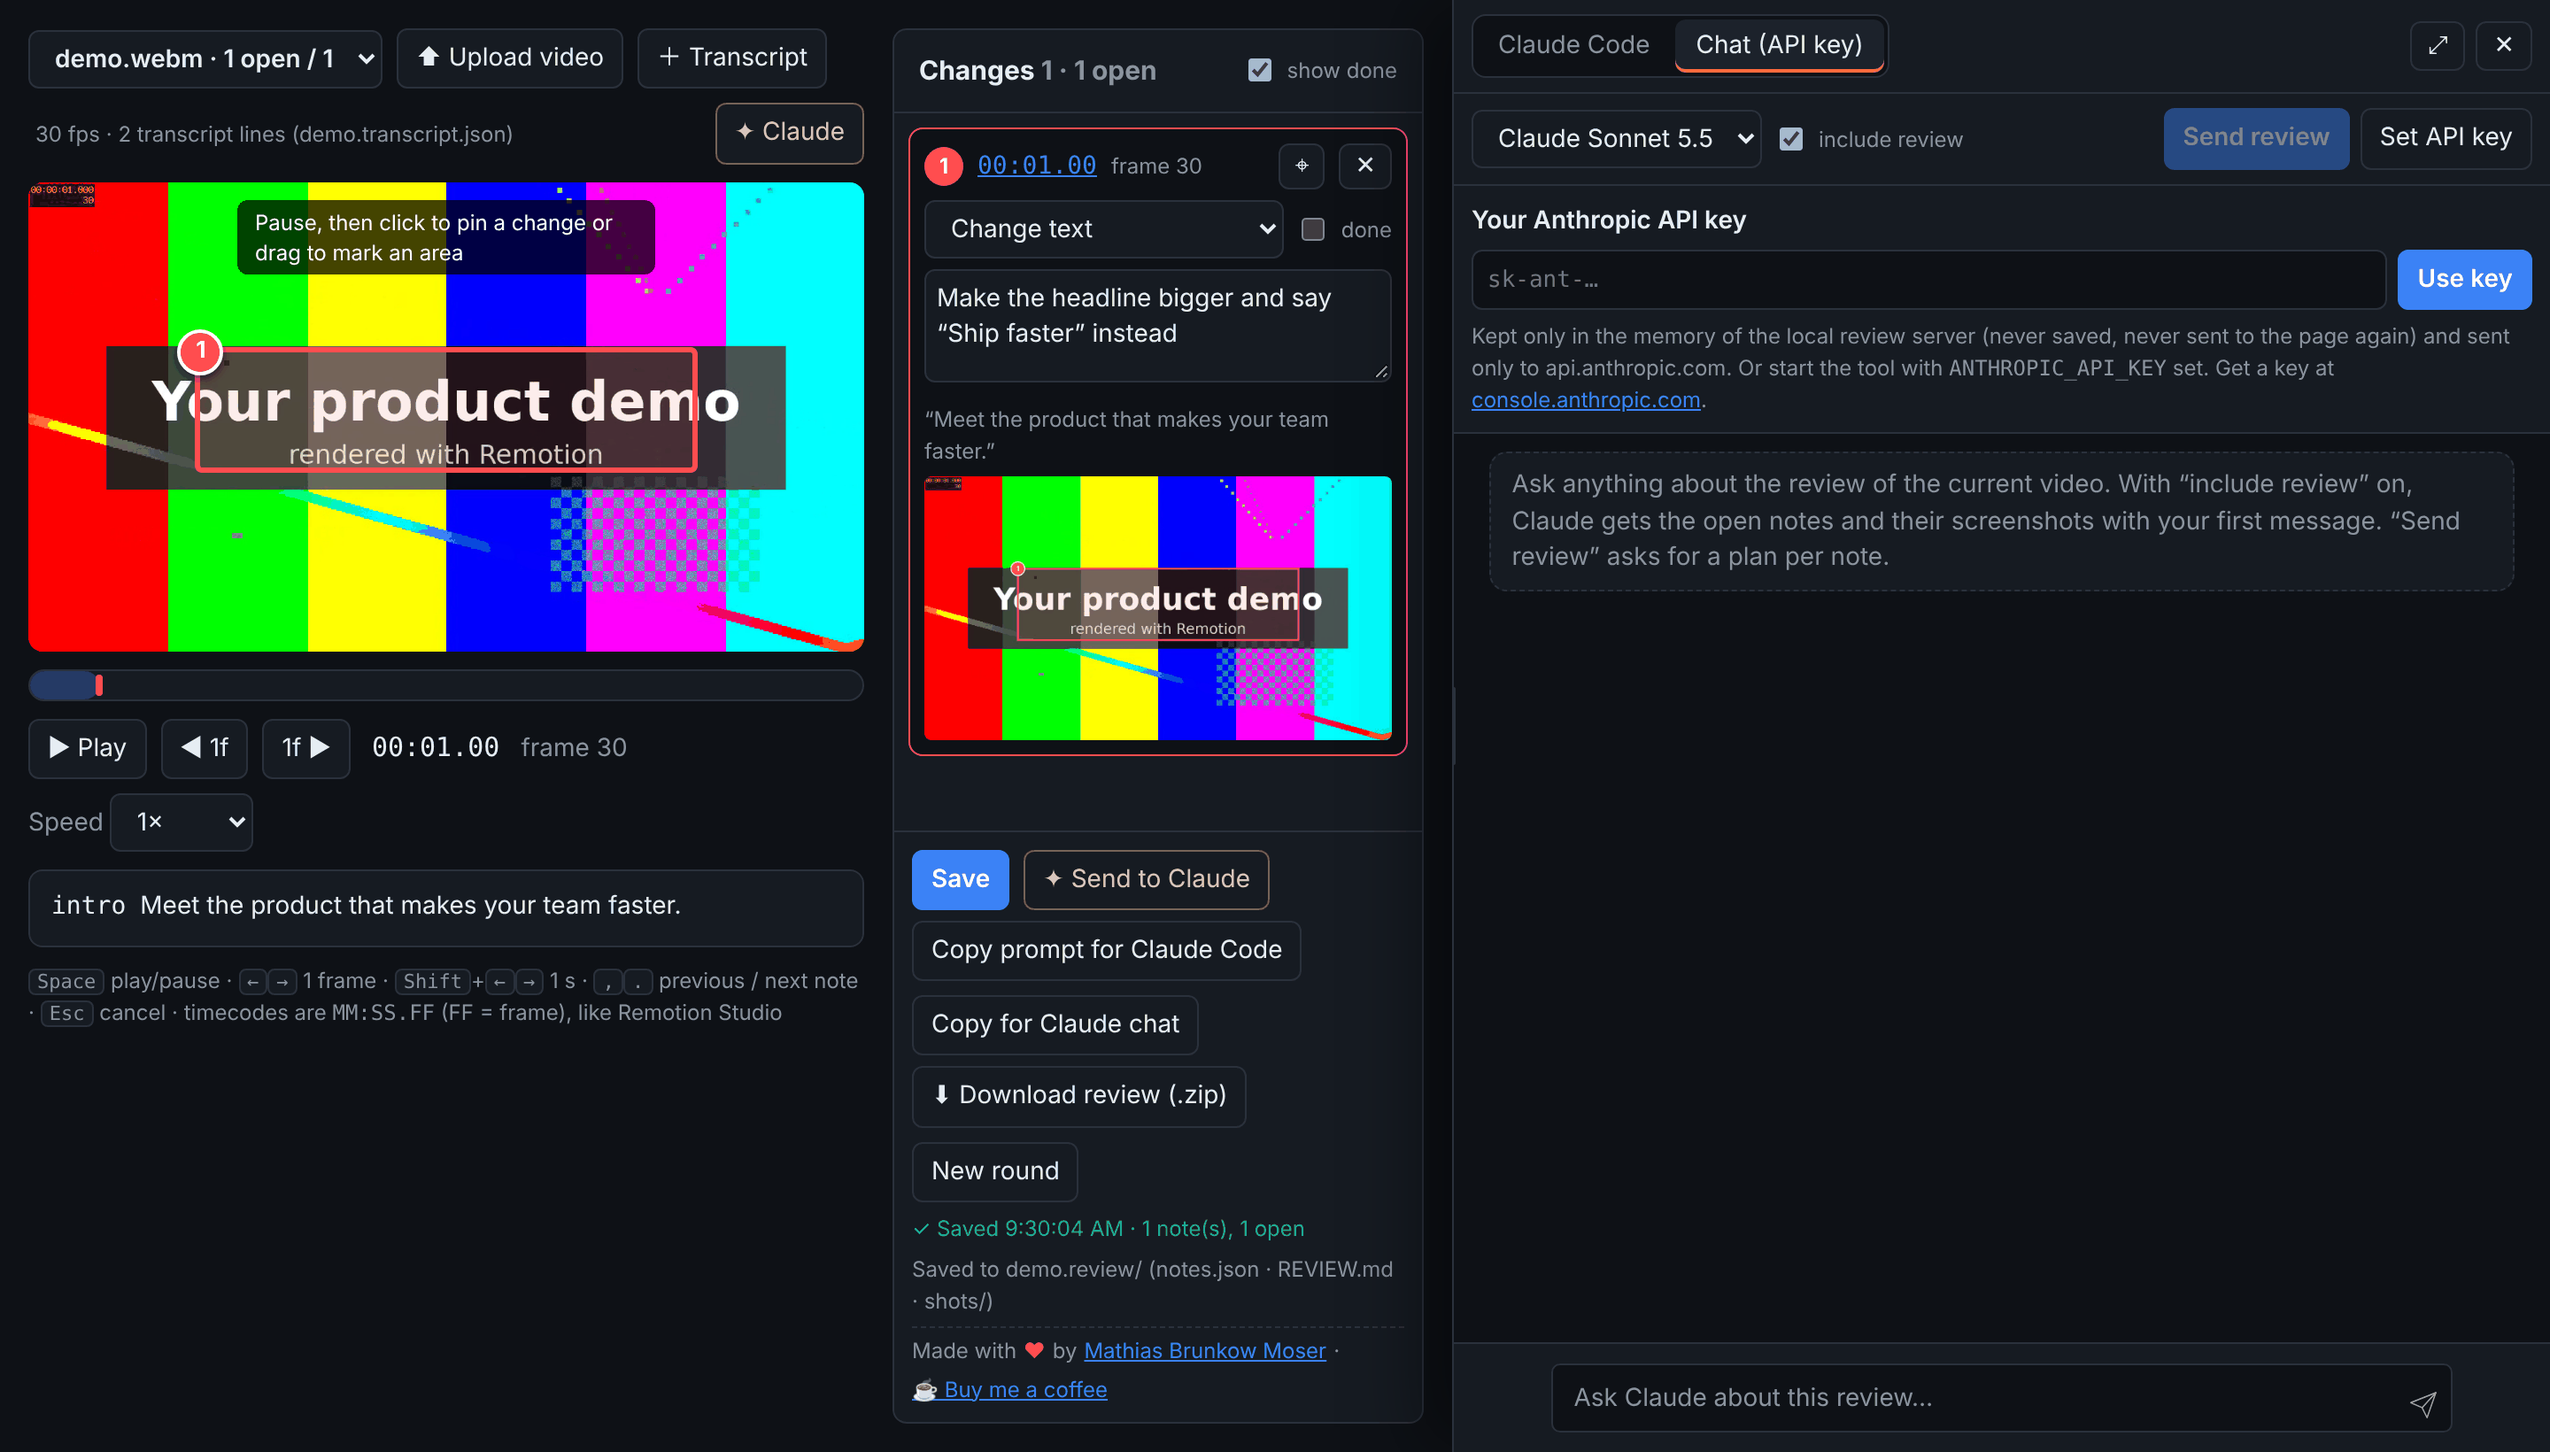
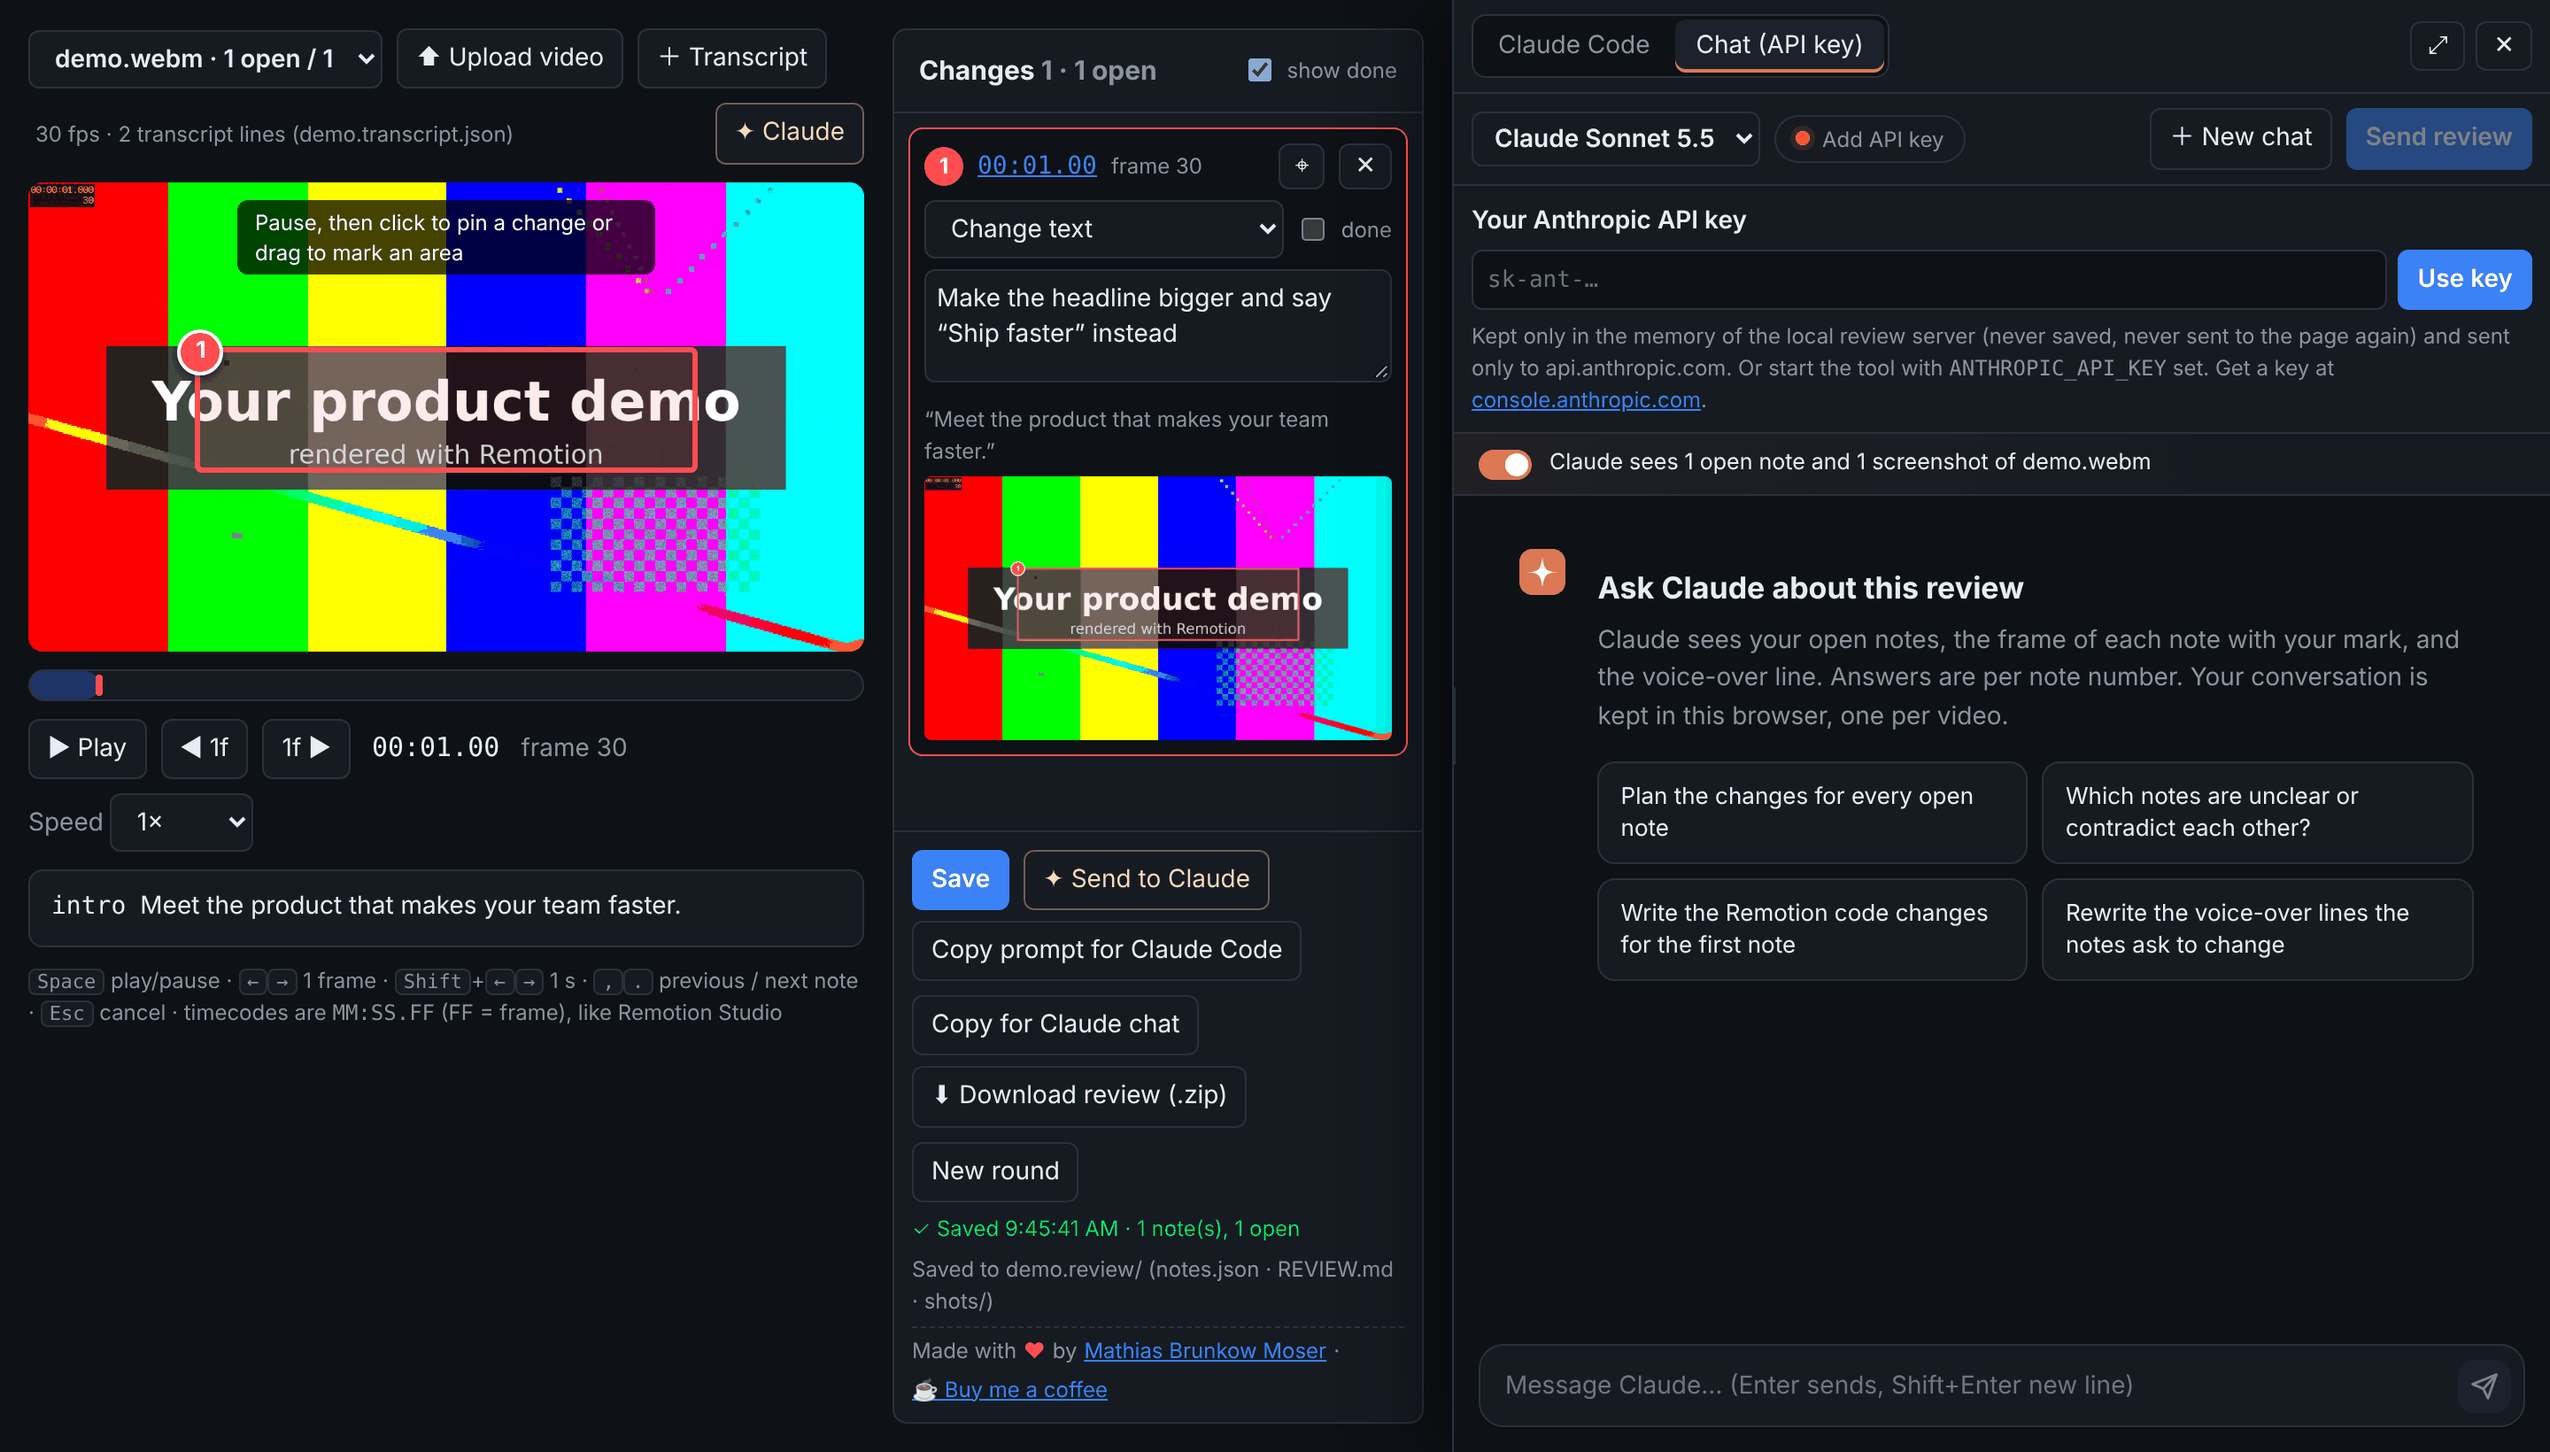
Document the chat's behaviour and storage
Claude-Session: https://claude.ai/code/session_015QEun5jaAimPMnmc3p7i7D

diff --git a/README.md b/README.md
@@ -98,7 +98,7 @@ review and changes the code.
 | You use … | Hand the review over with … |
 | --- | --- |
 | **Claude Code, inside the review page** | **✦ Send to Claude** → *Claude Code* tab: the real `claude` CLI runs in a terminal in the side panel, in your project folder (`--project`), and gets the review prompt. Watch it work and answer its questions without leaving the video. |
-| **the Claude API (your own key)** | **✦ Send to Claude** → *Chat (API key)* tab: a chat about the review; the open notes and their screenshots are sent along. Paste your key in the panel or set `ANTHROPIC_API_KEY`. |
+| **the Claude API (your own key)** | **✦ Send to Claude** → *Chat (API key)* tab: a chat about the review, one conversation per video; the open notes and their screenshots are sent along, answers come with coloured, copyable code, and overload or network errors are retried. Paste your key in the panel or set `ANTHROPIC_API_KEY`. |
 | **Claude Code** | **Copy prompt for Claude Code**: Claude reads the review folder itself. Install the included skill once and *"check my video review"* is enough: `cp -r integrations/claude/skills/apply-video-review .claude/skills/` |
 | **Claude desktop app** | the **MCP server**: add `video-review /path/to/renders --mcp` to the app's MCP config, then ask *"check my video review"*. Claude fetches the notes and screenshots and can tick notes as done. |
 | **claude.ai** or the **mobile app** | **Copy for Claude chat** (prompt + the whole review as text), paste it and attach the screenshots from `shots/`, or attach the **Download review (.zip)** file |
@@ -211,7 +211,8 @@ More in **[docs/usage.md](docs/usage.md)**, including the transcript formats and
 - No telemetry, no accounts: the page loads nothing from the internet (xterm.js and Deep Chat are bundled).
   The only outgoing requests are the ones you start in the ✦ Claude panel: Claude Code talks to
   Anthropic as it always does, and the API chat sends your messages, the open notes and their screenshots
-  to `api.anthropic.com`.
+  to `api.anthropic.com`. Chat conversations are kept in your browser's local storage (one per video);
+  **＋ New chat** deletes one.
 - **Your API key stays yours**: it is read from `ANTHROPIC_API_KEY` or pasted into the panel, kept in the
   memory of the local server only (never written to disk, never sent back to the page) and gone when the
   tool stops. The repository contains no keys.

diff --git a/docs/claude.md b/docs/claude.md
@@ -82,10 +82,25 @@ The **Chat (API key)** tab is a chat with Claude through the Anthropic API, buil
 1. Paste the key in the panel (or start the tool with `ANTHROPIC_API_KEY` set, then nothing needs to be
    pasted). The key is kept in the memory of the local server only: it is never written to disk, never
    sent back to the page, and is gone when the tool stops. **Forget** removes it earlier.
-2. Click **Send review**, or just ask a question. With **include review** on, the open notes of the
-   current video (as text, like `REVIEW.md`) and up to 20 screenshots are sent with the conversation, so
-   Claude sees the marks you drew. The review is sent with prompt caching, so follow-up questions are cheap.
+2. Click **Send review**, pick one of the suggestions, or just ask a question. The strip above the chat
+   shows what Claude sees, e.g. *"Claude sees 3 open notes and 3 screenshots of launch.mp4"*: the open
+   notes of the current video (as text, like `REVIEW.md`) and up to 20 screenshots are sent with the
+   conversation, so Claude sees the marks you drew. Its switch turns that off. Claude always gets the
+   current notes, so you can keep editing the review while you chat. The review is sent with prompt caching,
+   so follow-up questions are cheap.
 3. Pick the model in the panel; `--claude-model` sets the default (`claude-sonnet-5-5`).
+
+What to expect from the chat:
+
+- **One conversation per video**, kept in your browser, so it is still there after a reload or a restart of
+  the tool. **＋ New chat** deletes it and starts over.
+- Answers stream in, with Markdown, tables and **syntax-coloured code**. Every code block has a **Copy**
+  button and every answer a **Copy answer** button. The ■ button stops an answer.
+- **It recovers by itself**: if the API is overloaded or rate-limited, or the network hiccups, the tool
+  retries up to three times (1 s, 2 s, 4 s, or as long as the API asks) before showing an error. If an
+  answer breaks off, you see what arrived and a clear error, and the next message works normally. If the
+  tool was restarted, the page picks up the new session by itself (paste the key again if you had pasted it).
+- An answer that reaches the length limit says so; ask Claude to continue.
 
 The chat can explain and plan, and write code you copy into your project; it cannot change your files.
 For that, use the Claude Code tab. `--no-chat` turns the chat off.

diff --git a/docs/architecture.md b/docs/architecture.md
@@ -76,7 +76,15 @@ The terminal is a pseudo-terminal (`os.openpty`) whose program becomes the sessi
 controlling terminal, so Claude Code's interactive UI, colors, resizing and Ctrl+C work. The chat turns
 Deep Chat's messages into a Messages API request (roles alternated, the review prepended to the first user
 message as text plus base64 image blocks with `cache_control`), sends it with `urllib` (which honours
-`HTTPS_PROXY`) and forwards the `text_delta` events.
+`HTTPS_PROXY`) and forwards the `text_delta` events. Errors before the answer starts (HTTP 408, 409, 429,
+5xx, 529 and network errors) are retried up to 4 attempts with backoff or `retry-after`; a stream that
+ends without `message_stop` or with an `error` event becomes a `data: {"error": …}` event. The connection
+to the API is closed as soon as the page stops an answer. Screenshots are limited to 20 images, 3.7 MB each
+and 18 MB in total per request.
+
+In the page, every video gets its own `<deep-chat>` element with Deep Chat's `browserStorage`
+(`localStorage` key `video-review.chat.v1:<review folder>`). Code is coloured by highlight.js through Deep
+Chat's Markdown renderer; copy buttons are added to its shadow DOM with a `MutationObserver`.
 
 ## MCP server
 

diff --git a/CHANGELOG.md b/CHANGELOG.md
@@ -21,6 +21,15 @@ All notable changes to this project are documented here. The format follows
     screenshots are sent along, with prompt caching. Options `--claude-model`, `--no-chat`.
   - Only offered on localhost; every request needs a per-start token.
 - Vendored xterm.js 6.0.0, @xterm/addon-fit 0.11.0 and Deep Chat 2.5.1 (MIT), see `static/vendor/README.md`.
+- API chat, polished and hardened:
+  - one conversation per video, kept in the browser across reloads and restarts; "＋ New chat"
+  - a Claude-style layout (answers as text with an avatar, your messages as bubbles), suggestions to start,
+    a strip that shows what Claude sees (open notes and screenshots) with a switch
+  - syntax-coloured code (highlight.js 11.11.1, BSD-3-Clause, vendored), copy buttons for code blocks and
+    answers, tables, quotes
+  - retries with backoff for overloaded / rate-limited / network errors, clear errors for answers that break
+    off, a note when an answer reaches the length limit, a size budget for screenshots
+  - picks up a restarted server's session token by itself; error bubbles are not sent back to Claude
 
 ### Changed
 - "Copy prompt for Claude" is now "Copy prompt for Claude Code" (both copy buttons stay).
